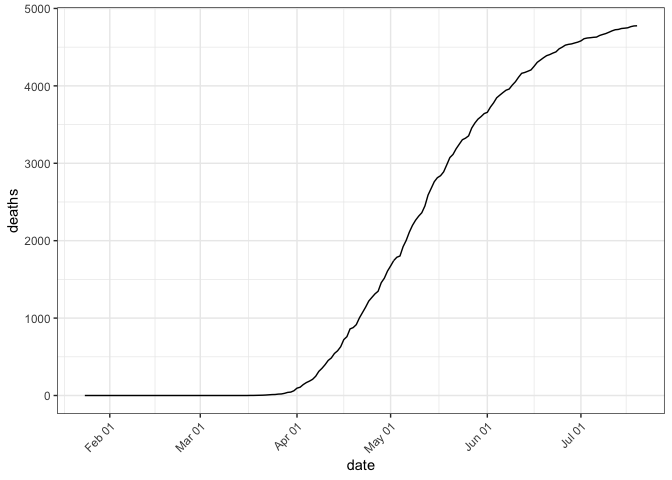
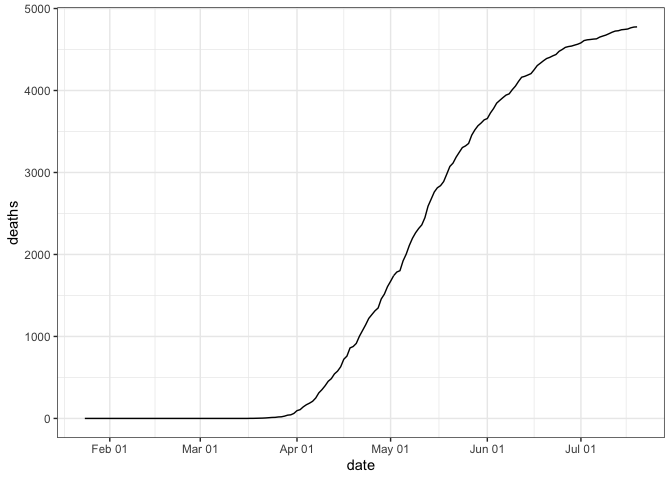
Making things prettier

diff --git a/HW03-code.md b/HW03-code.md
@@ -8,8 +8,7 @@ Andrea Watson
 I am interested in using the New York Times’ publicly available COVID-19
 [data](https://github.com/nytimes/covid-19-data/tree/b229258ee82e415b33abde8c26fedd57ee48509a)
 to explore the number of cases and deaths in Cook County, Illinois in
-the context of the Illinois and Chicago executive and public health
-orders.
+the context of Illinois and Chicago executive and public health orders.
 
 ## Importing packages
 
@@ -18,17 +17,16 @@ library("dplyr")
 library("ggplot2")
 ```
 
-## Setting theme
+## Setting a theme
 
 ``` r
 my_theme <- theme_bw() + 
-  theme(axis.text.x = element_text(angle = 45, hjust = 1))
+  theme(axis.text.x = element_text(angle = 0, hjust = 0.5), 
+        plot.caption = element_text(hjust = 0, face= "italic"))
 theme_set(my_theme)
 ```
 
-## Analysis
-
-### Exploring data
+## Exploring data
 
 The NYTimes historical county data can be downloaded
 [here](https://github.com/nytimes/covid-19-data/blob/b229258ee82e415b33abde8c26fedd57ee48509a/us-counties.csv).
@@ -79,8 +77,7 @@ cook_county <- county_data %>%
 
 cook_county %>% ggplot(aes(date, cases)) +
   geom_line(aes(group = 1)) +
-  scale_x_date(date_labels = "%b %d", date_breaks = "1 month") +
-  theme(axis.text.x = element_text(angle = 45))
+  scale_x_date(date_labels = "%b %d", date_breaks = "1 month")
 ```
 
 ![](HW03-code_files/figure-gfm/cook%20county%20cases%20and%20deaths-1.png)<!-- -->
@@ -88,11 +85,12 @@ cook_county %>% ggplot(aes(date, cases)) +
 ``` r
 cook_county %>% ggplot(aes(date, deaths)) +
   geom_line(aes(group = 1)) +
-  scale_x_date(date_labels = "%b %d", date_breaks = "1 month") +
-  theme(axis.text.x = element_text(angle = 45))
+  scale_x_date(date_labels = "%b %d", date_breaks = "1 month")
 ```
 
 ![](HW03-code_files/figure-gfm/cook%20county%20cases%20and%20deaths-2.png)<!-- -->
+
+## Data analysis and presentation
 
 Alright, so that’s what the raw data looks like. Obviously the total
 number of cases and deaths will continue to go up over time. But what
@@ -140,44 +138,42 @@ health orders were implemented. Specifically:
 
 ``` r
 cook_county_rates %>% ggplot(aes(date, new_cases)) +
-  geom_vline(xintercept = as.numeric(as.Date("2020-03-09")), color = "#00BFC4", size=1) +
-  geom_vline(xintercept = as.numeric(as.Date("2020-03-26")), color = "#00BFC4", size=1) +
-  geom_vline(xintercept = as.numeric(as.Date("2020-05-01")), color = "#00BFC4", size=1) +
-  geom_vline(xintercept = as.numeric(as.Date("2020-06-03")), color = "#00BFC4", size=1) +
-  geom_vline(xintercept = as.numeric(as.Date("2020-06-26")), color = "#00BFC4", size=1) +
   geom_line(aes(group = 1)) +
-  scale_x_date(date_labels = "%b %d", date_breaks = "1 month") +
-  theme(axis.text.x = element_text(angle = 45)) +
+  scale_x_date(date_labels = "%b %d", date_breaks = "months") +
   ggtitle("New COVID-19 Cases per Day in Cook County, Illinois") +
-  xlab("Date") + ylab("New Cases per Day") +
+  xlab("Date") + ylab("New Cases") +
   labs(caption = "Data from The New York Times, based on reports from state and local health agencies.") +
-  annotate(geom = "text", x = as.Date("2020-03-08"), y=2250, label = "Disaster\nProclamation", size = 3, hjust = 1) +
-  annotate(geom = "text", x = as.Date("2020-03-27"), y=2250, label = "Phase I", size = 3, hjust = 0) +
-  annotate(geom = "text", x = as.Date("2020-05-02"), y=2250, label = "Phase II", size = 3, hjust = 0) +
-  annotate(geom = "text", x = as.Date("2020-06-04"), y=2250, label = "Phase III", size = 3, hjust = 0) +
-  annotate(geom = "text", x = as.Date("2020-06-27"), y=2250, label = "Phase IV", size = 3, hjust = 0)
+  geom_vline(xintercept = as.numeric(as.Date("2020-03-09")), color = "#00BFC4", alpha = 0.5, size = 1) +
+  geom_vline(xintercept = as.numeric(as.Date("2020-03-26")), color = "#00BFC4", alpha = 0.5, size = 1) +
+  geom_vline(xintercept = as.numeric(as.Date("2020-05-01")), color = "#00BFC4", alpha = 0.5, size = 1) +
+  geom_vline(xintercept = as.numeric(as.Date("2020-06-03")), color = "#00BFC4", alpha = 0.5, size = 1) +
+  geom_vline(xintercept = as.numeric(as.Date("2020-06-26")), color = "#00BFC4", alpha = 0.5, size = 1) +
+  annotate(geom = "text", x = as.Date("2020-03-09"), y=2250, label = "Disaster \nProclamation ", size = 3, hjust = 1, vjust = 1) +
+  annotate(geom = "text", x = as.Date("2020-03-26"), y=2250, label = " Phase I", size = 3, hjust = 0, vjust = 1) +
+  annotate(geom = "text", x = as.Date("2020-05-01"), y=2250, label = " Phase II", size = 3, hjust = 0, vjust = 1) +
+  annotate(geom = "text", x = as.Date("2020-06-03"), y=2250, label = " Phase III", size = 3, hjust = 0, vjust = 1) +
+  annotate(geom = "text", x = as.Date("2020-06-26"), y=2250, label = " Phase IV", size = 3, hjust = 0, vjust = 1)
 ```
 
 ![](HW03-code_files/figure-gfm/include%20phase%20info-1.png)<!-- -->
 
 ``` r
 cook_county_rates %>% ggplot(aes(date, new_deaths)) +
-  geom_vline(xintercept = as.numeric(as.Date("2020-03-09")), color = "#00BFC4", size=1) +
-  geom_vline(xintercept = as.numeric(as.Date("2020-03-26")), color = "#00BFC4", size=1) +
-  geom_vline(xintercept = as.numeric(as.Date("2020-05-01")), color = "#00BFC4", size=1) +
-  geom_vline(xintercept = as.numeric(as.Date("2020-06-03")), color = "#00BFC4", size=1) +
-  geom_vline(xintercept = as.numeric(as.Date("2020-06-26")), color = "#00BFC4", size=1) +
   geom_line(aes(group = 1)) +
-  scale_x_date(date_labels = "%b %d", date_breaks = "1 month") +
-  theme(axis.text.x = element_text(angle = 45)) +
+  scale_x_date(date_labels = "%b %d", date_breaks = "months") +
   ggtitle("New COVID-19 Deaths per Day in Cook County, Illinois") +
-  xlab("Date") + ylab("New Deaths per Day") +
+  xlab("Date") + ylab("New Deaths") +
   labs(caption = "Data from The New York Times, based on reports from state and local health agencies.") +
-  annotate(geom = "text", x = as.Date("2020-03-08"), y=150, label = "Disaster\nProclamation", size = 3, hjust = 1) +
-  annotate(geom = "text", x = as.Date("2020-03-27"), y=150, label = "Phase I", size = 3, hjust = 0) +
-  annotate(geom = "text", x = as.Date("2020-05-02"), y=150, label = "Phase II", size = 3, hjust = 0) +
-  annotate(geom = "text", x = as.Date("2020-06-04"), y=150, label = "Phase III", size = 3, hjust = 0) +
-  annotate(geom = "text", x = as.Date("2020-06-27"), y=150, label = "Phase IV", size = 3, hjust = 0)
+  geom_vline(xintercept = as.numeric(as.Date("2020-03-09")), color = "#00BFC4", alpha = 0.5, size = 1) +
+  geom_vline(xintercept = as.numeric(as.Date("2020-03-26")), color = "#00BFC4", alpha = 0.5, size = 1) +
+  geom_vline(xintercept = as.numeric(as.Date("2020-05-01")), color = "#00BFC4", alpha = 0.5, size = 1) +
+  geom_vline(xintercept = as.numeric(as.Date("2020-06-03")), color = "#00BFC4", alpha = 0.5, size = 1) +
+  geom_vline(xintercept = as.numeric(as.Date("2020-06-26")), color = "#00BFC4", alpha = 0.5, size = 1) +
+  annotate(geom = "text", x = as.Date("2020-03-09"), y=150, label = "Disaster \nProclamation ", size = 3, hjust = 1, vjust = 1) +
+  annotate(geom = "text", x = as.Date("2020-03-26"), y=150, label = " Phase I", size = 3, hjust = 0, vjust = 1) +
+  annotate(geom = "text", x = as.Date("2020-05-01"), y=150, label = " Phase II", size = 3, hjust = 0, vjust = 1) +
+  annotate(geom = "text", x = as.Date("2020-06-03"), y=150, label = " Phase III", size = 3, hjust = 0, vjust = 1) +
+  annotate(geom = "text", x = as.Date("2020-06-26"), y=150, label = " Phase IV", size = 3, hjust = 0, vjust = 1)
 ```
 
 ![](HW03-code_files/figure-gfm/include%20phase%20info-2.png)<!-- -->
